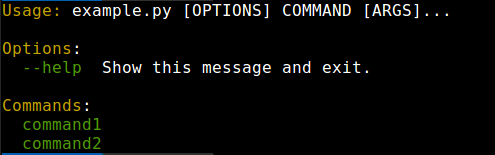
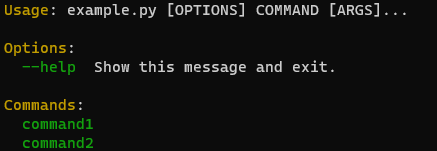
fix #11
add non-colored suffix to _colorize for 'usage'

update color of colon in tests

update screenshots

typo in README

diff --git a/tests/test_custom_colors.py b/tests/test_custom_colors.py
@@ -25,7 +25,7 @@ def test_command_custom_colors(runner):
     result = runner.invoke(cli, ['command', '--help'], color=True)
     assert not result.exception
     assert result.output.splitlines() == [
-        '\x1b[31mUsage: \x1b[0mcli command [OPTIONS]',
+        '\x1b[31mUsage\x1b[0m: cli command [OPTIONS]',
         '',
         '\x1b[31mOptions\x1b[0m:',
         '  \x1b[34m--name TEXT\x1b[0m  The person to greet.',
@@ -54,7 +54,7 @@ def test_custom_option_color(runner):
     result = runner.invoke(cli, ['--help'], color=True)
     assert not result.exception
     assert result.output.splitlines() == [
-        '\x1b[33mUsage: \x1b[0mcli [OPTIONS] COMMAND [ARGS]...',
+        '\x1b[33mUsage\x1b[0m: cli [OPTIONS] COMMAND [ARGS]...',
         '',
         '\x1b[33mOptions\x1b[0m:',
         '  \x1b[32m--help\x1b[0m  Show this message and exit.',
@@ -83,7 +83,7 @@ def test_option_color(runner):
     result = runner.invoke(cli, ['command', '--help'], color=True)
     assert not result.exception
     assert result.output.splitlines() == [
-        '\x1b[33mUsage: \x1b[0mcli command [OPTIONS]',
+        '\x1b[33mUsage\x1b[0m: cli command [OPTIONS]',
         '',
         '\x1b[33mOptions\x1b[0m:',
         '  \x1b[31m--name TEXT\x1b[0m  The person to greet.',
@@ -110,7 +110,7 @@ def test_multi_name_option_color(runner, option_name):
     result = runner.invoke(cli, ['command', '--help'], color=True)
     assert not result.exception
     assert result.output.splitlines() == [
-        '\x1b[33mUsage: \x1b[0mcli command [OPTIONS]',
+        '\x1b[33mUsage\x1b[0m: cli command [OPTIONS]',
         '',
         '\x1b[33mOptions\x1b[0m:',
         '  \x1b[31m-n, --name TEXT\x1b[0m  The person to greet.',
@@ -137,7 +137,7 @@ def test_flag_option_color(runner, option_name):
     result = runner.invoke(cli, ['command', '--help'], color=True)
     assert not result.exception
     assert result.output.splitlines() == [
-        '\x1b[33mUsage: \x1b[0mcli command [OPTIONS]',
+        '\x1b[33mUsage\x1b[0m: cli command [OPTIONS]',
         '',
         '\x1b[33mOptions\x1b[0m:',
         '  \x1b[31m--shout / --no-shout\x1b[0m',

diff --git a/tests/test_multi_commands.py b/tests/test_multi_commands.py
@@ -49,7 +49,7 @@ def test_multi_command(runner):
     result = runner.invoke(cli, ['--help'], color=True)
     assert not result.exception
     assert result.output.splitlines() == [
-        '\x1b[33mUsage: \x1b[0mcli [OPTIONS] COMMAND [ARGS]...',
+        '\x1b[33mUsage\x1b[0m: cli [OPTIONS] COMMAND [ARGS]...',
         '',
         '\x1b[33mOptions\x1b[0m:',
         '  \x1b[32m--help\x1b[0m  Show this message and exit.',
@@ -62,7 +62,7 @@ def test_multi_command(runner):
     result = runner.invoke(cli, ['cmd1', '--help'], color=True)
     assert not result.exception
     assert result.output.splitlines() == [
-        '\x1b[33mUsage: \x1b[0mcli cmd1 [OPTIONS] COMMAND [ARGS]...',
+        '\x1b[33mUsage\x1b[0m: cli cmd1 [OPTIONS] COMMAND [ARGS]...',
         '',
         '\x1b[33mOptions\x1b[0m:',
         '  \x1b[32m--help\x1b[0m  Show this message and exit.',
@@ -74,7 +74,7 @@ def test_multi_command(runner):
     result = runner.invoke(cli, ['cmd2', '--help'], color=True)
     assert not result.exception
     assert result.output.splitlines() == [
-        '\x1b[31mUsage: \x1b[0mcli cmd2 [OPTIONS] COMMAND [ARGS]...',
+        '\x1b[31mUsage\x1b[0m: cli cmd2 [OPTIONS] COMMAND [ARGS]...',
         '',
         '\x1b[31mOptions\x1b[0m:',
         '  \x1b[34m--help\x1b[0m  Show this message and exit.',

diff --git a/tests/test_basic.py b/tests/test_basic.py
@@ -17,7 +17,7 @@ def test_basic_group(runner):
     result = runner.invoke(cli, ['--help'], color=True)
     assert not result.exception
     assert result.output.splitlines() == [
-        '\x1b[33mUsage: \x1b[0mcli [OPTIONS] COMMAND [ARGS]...',
+        '\x1b[33mUsage\x1b[0m: cli [OPTIONS] COMMAND [ARGS]...',
         '',
         '\x1b[33mOptions\x1b[0m:',
         '  \x1b[32m--name TEXT\x1b[0m  The person to greet.',
@@ -42,7 +42,7 @@ def test_basic_command(runner):
     result = runner.invoke(cli, ['--help'], color=True)
     assert not result.exception
     assert result.output.splitlines() == [
-        '\x1b[33mUsage: \x1b[0mcli [OPTIONS] COMMAND [ARGS]...',
+        '\x1b[33mUsage\x1b[0m: cli [OPTIONS] COMMAND [ARGS]...',
         '',
         '\x1b[33mOptions\x1b[0m:',
         '  \x1b[32m--help\x1b[0m  Show this message and exit.',
@@ -54,7 +54,7 @@ def test_basic_command(runner):
     result = runner.invoke(cli, ['command', '--help'], color=True)
     assert not result.exception
     assert result.output.splitlines() == [
-        '\x1b[33mUsage: \x1b[0mcli command [OPTIONS]',
+        '\x1b[33mUsage\x1b[0m: cli command [OPTIONS]',
         '',
         '\x1b[33mOptions\x1b[0m:',
         '  \x1b[32m--name TEXT\x1b[0m  The person to greet.',

diff --git a/click_help_colors/core.py b/click_help_colors/core.py
@@ -32,8 +32,8 @@ class HelpColorsFormatter(click.HelpFormatter):
                 return self.options_custom_colors[opt]
         return self.options_color
 
-    def write_usage(self, prog, args='', prefix='Usage: '):
-        colorized_prefix = _colorize(prefix, color=self.headers_color)
+    def write_usage(self, prog, args='', prefix='Usage'):
+        colorized_prefix = _colorize(prefix, color=self.headers_color, suffix=": ")
         super(HelpColorsFormatter, self).write_usage(prog,
                                                      args,
                                                      prefix=colorized_prefix)

diff --git a/click_help_colors/utils.py b/click_help_colors/utils.py
@@ -7,11 +7,12 @@ class HelpColorsException(Exception):
     pass
 
 
-def _colorize(text, color=None):
+def _colorize(text, color=None, suffix=None):
     if not color or "NO_COLOR" in os.environ:
-        return text
+        return text + (suffix or '')
     try:
-        return '\033[%dm' % (_ansi_colors[color]) + text + _ansi_reset_all
+        return '\033[%dm' % (_ansi_colors[color]) + text + \
+                    _ansi_reset_all + (suffix or '')
     except KeyError:
         raise HelpColorsException('Unknown color %r' % color)
 

diff --git a/README.rst b/README.rst
@@ -91,7 +91,7 @@ Usage
 
 .. code-block:: console
 
-    $ python example_with_custom_colors.py --help
+    $ python example_with_custom_colors.py command1 --help
 
 .. image:: https://raw.githubusercontent.com/r-m-n/click-help-colors/master/examples/screenshots/5.png
 
